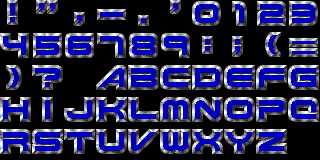
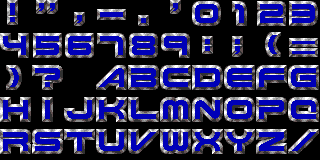
apps/demo1: Update the scroll text
Also add "/" to the Ming charset (to be able to write URL:s).

Changed region(s): [[0.875, 0.7812, 1.0, 0.9688]]

diff --git a/examples/apps/demo1.c b/examples/apps/demo1.c
@@ -57,7 +57,7 @@ static const struct {
     // 32 - 39 [ !"#$%&']
     {2, 2}, {0, 0}, {0, 1}, {2, 2}, {2, 2}, {2, 2}, {2, 2}, {0, 5},
     // 40 - 47 [()*+,-./]
-    {1, 8}, {2, 0}, {2, 2}, {2, 2}, {0, 2}, {0, 3}, {0, 4}, {2, 2},
+    {1, 8}, {2, 0}, {2, 2}, {2, 2}, {0, 2}, {0, 3}, {0, 4}, {4, 9},
     // 48 - 55 [01234567]
     {0, 6}, {0, 7}, {0, 8}, {0, 9}, {1, 0}, {1, 1}, {1, 2}, {1, 3},
     // 56 - 63 [89:;<=>?]
@@ -75,9 +75,13 @@ static const struct {
 
 // Scroller text.
 static const char SCROLL_TEXT[] =
-    "                        HELLO!  THIS IS A DEMONSTRATION OF THE MC1 SDK.  AWSOME ART BY "
-    "FERNANDO CORREA (BE SURE TO CHECK OUT HIS OTHER WORKS) AND THE FONT IS A CLASSIC AMIGA "
-    "DEMO FONT BY \"MING\" (A.K.A THE KNIGHT HAWKS FONT FROM 1988).            ";
+    "                        "
+    "HELLO!  THIS IS A DEMONSTRATION OF THE MC1 SDK.  "
+    "THE AWSOME ART WAS CREATD BY FERNANDO CORREA (BE SURE TO CHECK OUT HIS OTHER WORKS), "
+    "AND THE FONT IS A CLASSIC AMIGA DEMO FONT FROM 1988 BY \"MING\" (A.K.A THE KNIGHT HAWKS "
+    "FONT).      "
+    "FIND OUT MORE ON:   === HTTPS://GITHUB.COM/MRISC32/MC1-SDK ==="
+    "                        ";
 
 typedef struct {
   float h;

diff --git a/examples/apps/README.md b/examples/apps/README.md
@@ -16,7 +16,7 @@ Replace `/dev/sdX` with the SD card device.
 
 ## Credits
 
-The cyberpunk car pictures ([Retrowave car](retrawave-car.png),
+The cyberpunk car pictures ([Retrawave car](retrawave-car.png),
 [Is that a supra?](is-that-a-supra.png) and [Phantom](phantom.png)) were created by
 [Fernando Correa](https://www.artstation.com/fernandocorrea).
 
